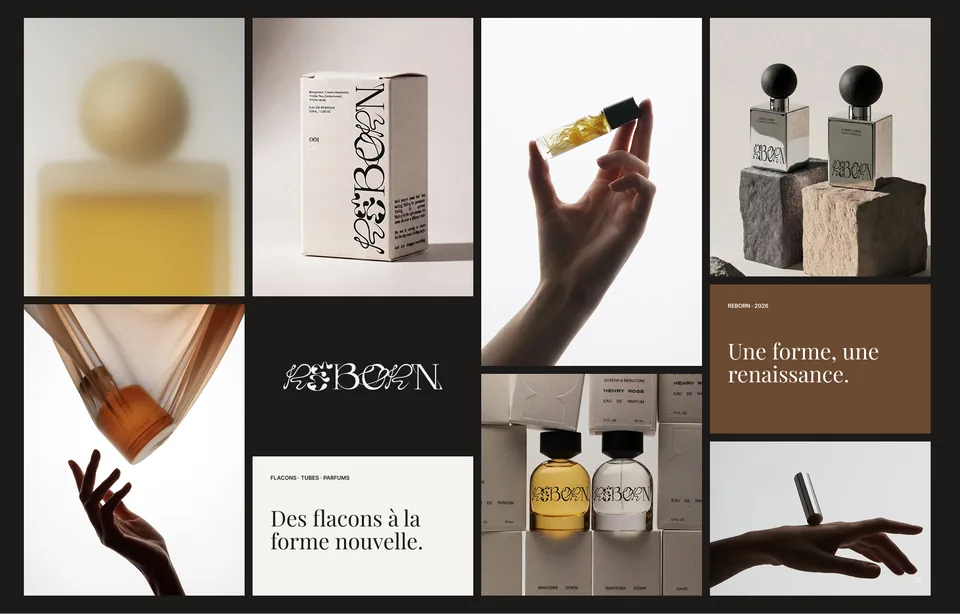
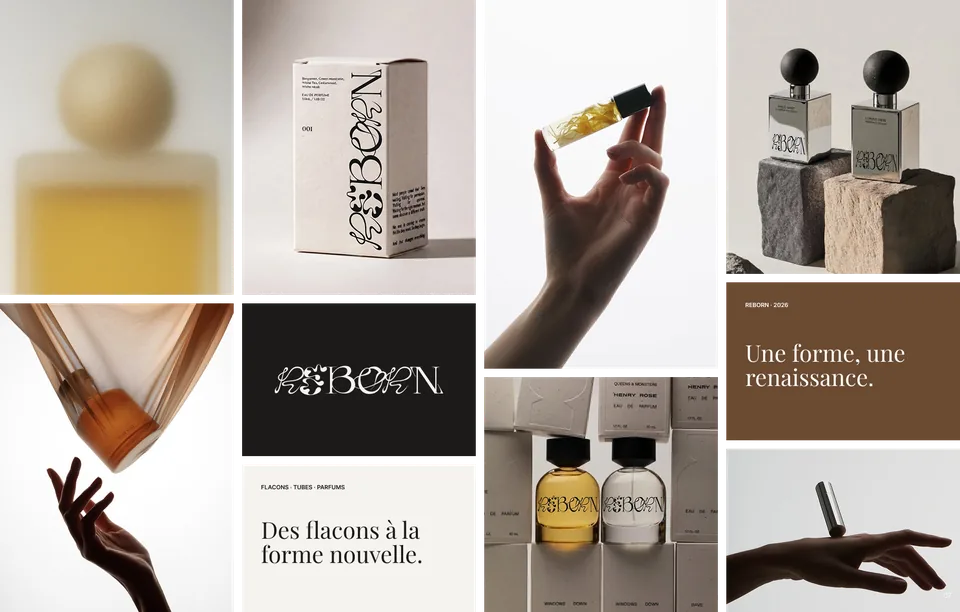
Accueil : carte Reborn sans fond (transparence entre les photos)

diff --git a/index.html b/index.html
@@ -1337,7 +1337,7 @@ img, .trail__card, .pj__viewer, .follow {
     // Jamais deux voisines de la même famille ni de la même couleur ; chaque tour, une carte change de projet.
     (function () {
     try {
-      var ALL = [{"id":"breath-1","src":"images/portfolio/group-1000008223-card.webp","cat":"breath","avg":[145,143,137],"ratio":0.829,"detail":{"title":"Breath","type":"Affiche expérimentale","desc":"Une affiche expérimentale à l’ambiance calme : silhouette florale en filigrane, titre en lettrage graphique et damier en signature. Présentée à plat, puis en situation.","items":["Direction artistique","Affiche","Typographie"],"tools":"Illustrator · Photoshop","format":"Print · Affiche","imgs":["images/portfolio/group-1000008223-pop.webp","images/portfolio/image-110-pop.webp"]}},{"id":"breath-2","src":"images/portfolio/image-110-card.webp","cat":"breath","avg":[112,107,100],"ratio":0.8,"detail":{"title":"Breath","type":"Affiche expérimentale","desc":"Une affiche expérimentale à l’ambiance calme : silhouette florale en filigrane, titre en lettrage graphique et damier en signature. Présentée à plat, puis en situation.","items":["Direction artistique","Affiche","Typographie"],"tools":"Illustrator · Photoshop","format":"Print · Affiche","imgs":["images/portfolio/group-1000008223-pop.webp","images/portfolio/image-110-pop.webp"]}},{"id":"frame7","src":"images/portfolio/frame-7-card.webp","cat":"solo-frame7","avg":[216,193,193],"ratio":0.772,"detail":{"title":"Parachute","type":"Mise en page expérimentale","desc":"Une mise en page expérimentale construite autour des paroles d’une chanson : le texte, l’image et les blancs dialoguent pour faire entendre la musique.","items":["Direction artistique","Mise en page","Typographie"],"tools":"InDesign · Photoshop","format":"Édition","imgs":["images/portfolio/frame-7-pop.webp"]}},{"id":"poster788","src":"images/portfolio/frame-1000008153-card.webp","cat":"solo-poster788","avg":[24,24,24],"ratio":0.772,"detail":{"title":"Poster N°789","type":"Affiche expérimentale","desc":"Une affiche expérimentale sombre et graphique, construite autour d’un motif en points et d’une typographie très structurée.","items":["Direction artistique","Affiche","Typographie"],"tools":"Illustrator · Photoshop","format":"Print · Affiche","imgs":["images/portfolio/frame-1000008153-pop.webp"]}},{"id":"paysages","src":"images/portfolio/group-1000008295-2-card.webp","cat":"solo-paysages","avg":[198,201,191],"ratio":0.763,"detail":{"title":"Norway Magazine","type":"Édition · Magazine","desc":"Une page de magazine éditoriale pensée pour promouvoir la Norvège : de belles photographies, des colonnes de texte aérées et un bandeau d’images en pied de page.","items":["Mise en page","Direction artistique","Typographie"],"tools":"InDesign · Photoshop","format":"Édition · Print","imgs":["images/portfolio/group-1000008295-2-pop.webp"]}},{"id":"mira","src":"images/portfolio/mira-magazine-card.webp","cat":"solo-mira","avg":[184,173,171],"ratio":0.581,"detail":{"title":"MIRA Magazine","type":"Édition · Magazine numérique","desc":"La direction artistique d’un magazine numérique de mode et de portraits, pensé pour la lecture à l’écran : un portrait sobre en noir et blanc, une lumière naturelle, de grandes capitales rouges et une mise en page qui laisse respirer l’image, de la couverture aux pages intérieures.","items":["Direction artistique","Mise en page","Typographie"],"tools":"InDesign · Photoshop","format":"Édition · Numérique","imgs":["images/portfolio/mira-magazine-pop.webp"]},"keepColor":true},{"id":"poster01","src":"images/portfolio/poster-01-swiss-card.webp","cat":"solo-poster01","avg":[233,233,230],"ratio":0.707,"detail":{"title":"I feel lonely","type":"Affiche expérimentale","desc":"Une affiche typographique expérimentale sur la solitude : un lettrage manuscrit étiré au centre, de courts textes en marge et beaucoup de blanc pour laisser respirer le message.","items":["Direction artistique","Typographie expérimentale","Mise en page"],"tools":"Illustrator · Photoshop","format":"Print · Affiche","imgs":["images/portfolio/poster-01-swiss-pop.webp"]}},{"id":"poster05","src":"images/portfolio/poster-05-tableau-card.webp","cat":"solo-poster05","avg":[241,225,219],"ratio":0.707,"detail":{"title":"Festival","type":"Affiche expérimentale","desc":"Une affiche expérimentale pour un festival d’été fictif : un lettrage gonflé en 3D, orange vif, entouré d’informations pratiques organisées comme un programme.","items":["Direction artistique","Typographie expérimentale","Mise en page"],"tools":"Illustrator · Photoshop","format":"Print · Affiche","imgs":["images/portfolio/poster-05-tableau-pop.webp"]}},{"id":"love-2","src":"images/portfolio/love-triangle-mockup-card.webp","cat":"love","avg":[146,141,134],"ratio":0.75,"detail":{"title":"Love Triangle","type":"Affiche expérimentale · Hommage","desc":"Une affiche hommage au titre « Love Triangle » d’Angèle, en featuring avec Caroline Polachek et SebastiAn : un portrait en grand format, un lettrage élégant jaune pâle sur bandeau noir et des paroles en filigrane. Présentée en version finale et en situation.","items":["Direction artistique","Affiche","Lettrage"],"tools":"Photoshop · Illustrator","format":"Print · Affiche A3","imgs":["images/portfolio/love-triangle-mockup-pop.webp","images/portfolio/love-triangle-poster-pop.webp"]}},{"id":"affiche-2","src":"images/portfolio/affiche-2-card.webp","cat":"solo-affiche-2","avg":[68,70,70],"ratio":1.0,"detail":{"title":"Game Over","type":"Affiche expérimentale","desc":"Une affiche expérimentale au lettrage rouge déformé sur un fond vert-de-gris, photographiée en situation sur une grille métallique.","items":["Direction artistique","Affiche","Lettrage"],"tools":"Illustrator · Photoshop","format":"Print · Affiche","imgs":["images/portfolio/affiche-2-pop.webp"]}},{"id":"affiche-3","src":"images/portfolio/affiche-3-card.webp","cat":"solo-affiche-3","avg":[65,58,60],"ratio":1.001,"detail":{"title":"Oxytocine","type":"Affiche expérimentale","desc":"Une affiche expérimentale qui mêle un lettrage blanc distordu et une forme dégradée rouge et bleue sur fond noir, présentée en situation.","items":["Direction artistique","Affiche","Lettrage"],"tools":"Illustrator · Photoshop","format":"Print · Affiche","imgs":["images/portfolio/affiche-3-pop.webp"]}},{"id":"noir","src":"images/portfolio/noir-expo-mockup-card.webp","cat":"solo-noir","avg":[105,102,101],"ratio":0.704,"detail":{"title":"Noir Expo","type":"Affiche expérimentale · Exposition","desc":"Une affiche expérimentale pour Noir Expo, une exposition photo consacrée au noir et blanc : une recherche sur la façon dont le noir et blanc fait ressortir le sujet, la lumière et le grain. Présentée en situation, puis en version finale.","items":["Direction artistique","Affiche","Typographie"],"tools":"Photoshop · Illustrator","format":"Print · Affiche","imgs":["images/portfolio/noir-expo-mockup-pop.webp","images/portfolio/noir-expo-poster-pop.webp"]},"keepColor":true},{"id":"site-studio-bento","src":"images/sites/studio-bento-top.webp","full":"images/sites/studio-bento-full.webp","cat":"site","avg":[191,182,176],"ratio":1.6,"wide":true,"scroll":true,"fr":4.55,"detail":{"title":"Argenta - Studio de grillz, strass et manucure","type":"Site vitrine · Grille bento","desc":"Un site pour Argenta, studio de grillz, de strass dentaires et de manucure, construit en grille bento : prestations, créations et ambiance se découvrent d’un seul coup d’œil.","items":["Direction artistique","Maquette UI / UX","Système de grille"],"tools":"Figma","format":"Desktop · 1440 px","imgs":["images/sites/studio-bento-full.webp"],"browser":true}},{"id":"site-architecte","src":"images/sites/architecte-top.webp","full":"images/sites/architecte-full.webp","cat":"site","avg":[59,60,57],"ratio":1.6,"wide":true,"scroll":true,"fr":4.3944,"detail":{"title":"Aubert - Architecte indépendante","type":"Site vitrine · Portfolio","desc":"Une identité et un site sobres pour une architecte : de grandes photographies, une typographie élégante et un parcours « du croquis à la clé ».","items":["Identité visuelle","Maquette UI / UX","Portfolio"],"tools":"Figma","format":"Desktop · 1440 px","imgs":["images/sites/architecte-full.webp"],"browser":true}},{"id":"site-streetwear","src":"images/sites/streetwear-top.webp","full":"images/sites/streetwear-full.webp","cat":"site","avg":[98,64,56],"ratio":1.6,"wide":true,"scroll":true,"fr":3.9583,"detail":{"title":"Drop - Marque de streetwear","type":"Landing page · Marque de streetwear","desc":"Une landing page pour Drop, une marque de streetwear : des visuels forts, des drops mis en avant et un parcours d’achat réduit à l’essentiel.","items":["Direction artistique","Maquette UI / UX","E-commerce"],"tools":"Figma","format":"Desktop · 1440 px","imgs":["images/sites/streetwear-full.webp"],"browser":true}},{"id":"obscura","src":"images/sites/obscura-top.webp","full":"images/sites/obscura-full.webp","cat":"site","avg":[216,213,212],"ratio":1.6,"wide":true,"scroll":true,"fr":1.138,"keepColor":true,"detail":{"title":"Obscura - Studio de photographie","type":"Landing page interactive · Studio de photographie","desc":"Un projet expérimental pour montrer ce que peut devenir le portfolio d’un photographe ou d’un studio : les photos défilent, on choisit celle que l’on veut voir et elle s’ouvre en grand, avec sa série. Une page très simple, pensée comme une landing page interactive.","items":["Direction artistique","Maquette UI / UX","Portfolio interactif"],"tools":"Figma","format":"Desktop · 1920 px","imgs":["images/sites/obscura-full.webp"],"browser":true}},{"id":"cobra","src":"images/portfolio/cobra-card.webp","cat":"solo-cobra","avg":[100,89,100],"ratio":0.687,"detail":{"title":"Armanoïde","type":"Affiche expérimentale · Hommage","desc":"Une affiche hommage à Armanoïde, le bras droit du héros et pirate de l’espace Cobra (Space Adventure) : un personnage métallique sur fond d’étoiles, un grand lettrage rouge et bleu, et du texte en filigrane.","items":["Direction artistique","Affiche","Lettrage"],"tools":"Illustrator · Photoshop","format":"Print · Affiche","imgs":["images/portfolio/cobra-pop.webp"]}},{"id":"drop-brand","src":"images/portfolio/drop-slide-card.webp","cat":"drop","avg":[99,98,81],"ratio":1.584,"detail":{"title":"Drop","type":"Identité visuelle · Logo","desc":"Une identité de marque au caractère streetwear : un logotype massif et arrondi, des objets, des affiches et des visuels pensés pour créer un univers reconnaissable à chaque apparition.","items":["Identité visuelle","Logo","Direction artistique","Affiches"],"tools":"Illustrator · Photoshop","format":"Branding · Print","imgs":["images/portfolio/drop-brand-pop.webp"]}},{"id":"lueur-brand","src":"images/portfolio/lueur-accueil-card.webp","cat":"lueur","avg":[145,141,122],"ratio":1.564,"detail":{"title":"Lueur","type":"Identité visuelle · Branding","desc":"Une identité douce et élégante pour une marque de bijoux : logotype en finesse, packaging épuré et enseigne qui prolonge l’univers de la marque.","items":["Identité visuelle","Packaging","Signalétique"],"tools":"Illustrator · Photoshop","format":"Branding · Packaging","imgs":["images/portfolio/lueur-brand-pop.webp"]}},{"id":"drop-3d","src":"images/portfolio/drop-2-card.webp","cat":"drop","avg":[126,125,123],"ratio":0.765,"detail":{"title":"Drop","type":"Identité visuelle · Logo","desc":"Une identité de marque au caractère streetwear : un logotype massif et arrondi, des objets, des affiches et des visuels pensés pour créer un univers reconnaissable à chaque apparition.","items":["Identité visuelle","Logo","Direction artistique","Affiches"],"tools":"Illustrator · Photoshop","format":"Branding · Print","imgs":["images/portfolio/drop-brand-pop.webp"]}},{"id":"reborn-brand","src":"images/portfolio/reborn-slide-card.webp","cat":"reborn","avg":[152,143,133],"ratio":1.564,"detail":{"title":"Reborn","type":"Identité visuelle · Design de flacons","desc":"Une identité pour un studio qui crée de nouvelles formes de flacons et de tubes de parfum : un logotype aux courbes organiques, une palette sobre de noirs, de gris et de blancs réchauffés de brun et d’ambre, et des photographies qui mettent la forme en scène.","items":["Identité visuelle","Logo","Direction artistique"],"tools":"Figma · Illustrator","format":"Branding · Design de flacons","imgs":["images/portfolio/reborn-brand-pop.webp"]}}];
+      var ALL = [{"id":"breath-1","src":"images/portfolio/group-1000008223-card.webp","cat":"breath","avg":[145,143,137],"ratio":0.829,"detail":{"title":"Breath","type":"Affiche expérimentale","desc":"Une affiche expérimentale à l’ambiance calme : silhouette florale en filigrane, titre en lettrage graphique et damier en signature. Présentée à plat, puis en situation.","items":["Direction artistique","Affiche","Typographie"],"tools":"Illustrator · Photoshop","format":"Print · Affiche","imgs":["images/portfolio/group-1000008223-pop.webp","images/portfolio/image-110-pop.webp"]}},{"id":"breath-2","src":"images/portfolio/image-110-card.webp","cat":"breath","avg":[112,107,100],"ratio":0.8,"detail":{"title":"Breath","type":"Affiche expérimentale","desc":"Une affiche expérimentale à l’ambiance calme : silhouette florale en filigrane, titre en lettrage graphique et damier en signature. Présentée à plat, puis en situation.","items":["Direction artistique","Affiche","Typographie"],"tools":"Illustrator · Photoshop","format":"Print · Affiche","imgs":["images/portfolio/group-1000008223-pop.webp","images/portfolio/image-110-pop.webp"]}},{"id":"frame7","src":"images/portfolio/frame-7-card.webp","cat":"solo-frame7","avg":[216,193,193],"ratio":0.772,"detail":{"title":"Parachute","type":"Mise en page expérimentale","desc":"Une mise en page expérimentale construite autour des paroles d’une chanson : le texte, l’image et les blancs dialoguent pour faire entendre la musique.","items":["Direction artistique","Mise en page","Typographie"],"tools":"InDesign · Photoshop","format":"Édition","imgs":["images/portfolio/frame-7-pop.webp"]}},{"id":"poster788","src":"images/portfolio/frame-1000008153-card.webp","cat":"solo-poster788","avg":[24,24,24],"ratio":0.772,"detail":{"title":"Poster N°789","type":"Affiche expérimentale","desc":"Une affiche expérimentale sombre et graphique, construite autour d’un motif en points et d’une typographie très structurée.","items":["Direction artistique","Affiche","Typographie"],"tools":"Illustrator · Photoshop","format":"Print · Affiche","imgs":["images/portfolio/frame-1000008153-pop.webp"]}},{"id":"paysages","src":"images/portfolio/group-1000008295-2-card.webp","cat":"solo-paysages","avg":[198,201,191],"ratio":0.763,"detail":{"title":"Norway Magazine","type":"Édition · Magazine","desc":"Une page de magazine éditoriale pensée pour promouvoir la Norvège : de belles photographies, des colonnes de texte aérées et un bandeau d’images en pied de page.","items":["Mise en page","Direction artistique","Typographie"],"tools":"InDesign · Photoshop","format":"Édition · Print","imgs":["images/portfolio/group-1000008295-2-pop.webp"]}},{"id":"mira","src":"images/portfolio/mira-magazine-card.webp","cat":"solo-mira","avg":[184,173,171],"ratio":0.581,"detail":{"title":"MIRA Magazine","type":"Édition · Magazine numérique","desc":"La direction artistique d’un magazine numérique de mode et de portraits, pensé pour la lecture à l’écran : un portrait sobre en noir et blanc, une lumière naturelle, de grandes capitales rouges et une mise en page qui laisse respirer l’image, de la couverture aux pages intérieures.","items":["Direction artistique","Mise en page","Typographie"],"tools":"InDesign · Photoshop","format":"Édition · Numérique","imgs":["images/portfolio/mira-magazine-pop.webp"]},"keepColor":true},{"id":"poster01","src":"images/portfolio/poster-01-swiss-card.webp","cat":"solo-poster01","avg":[233,233,230],"ratio":0.707,"detail":{"title":"I feel lonely","type":"Affiche expérimentale","desc":"Une affiche typographique expérimentale sur la solitude : un lettrage manuscrit étiré au centre, de courts textes en marge et beaucoup de blanc pour laisser respirer le message.","items":["Direction artistique","Typographie expérimentale","Mise en page"],"tools":"Illustrator · Photoshop","format":"Print · Affiche","imgs":["images/portfolio/poster-01-swiss-pop.webp"]}},{"id":"poster05","src":"images/portfolio/poster-05-tableau-card.webp","cat":"solo-poster05","avg":[241,225,219],"ratio":0.707,"detail":{"title":"Festival","type":"Affiche expérimentale","desc":"Une affiche expérimentale pour un festival d’été fictif : un lettrage gonflé en 3D, orange vif, entouré d’informations pratiques organisées comme un programme.","items":["Direction artistique","Typographie expérimentale","Mise en page"],"tools":"Illustrator · Photoshop","format":"Print · Affiche","imgs":["images/portfolio/poster-05-tableau-pop.webp"]}},{"id":"love-2","src":"images/portfolio/love-triangle-mockup-card.webp","cat":"love","avg":[146,141,134],"ratio":0.75,"detail":{"title":"Love Triangle","type":"Affiche expérimentale · Hommage","desc":"Une affiche hommage au titre « Love Triangle » d’Angèle, en featuring avec Caroline Polachek et SebastiAn : un portrait en grand format, un lettrage élégant jaune pâle sur bandeau noir et des paroles en filigrane. Présentée en version finale et en situation.","items":["Direction artistique","Affiche","Lettrage"],"tools":"Photoshop · Illustrator","format":"Print · Affiche A3","imgs":["images/portfolio/love-triangle-mockup-pop.webp","images/portfolio/love-triangle-poster-pop.webp"]}},{"id":"affiche-2","src":"images/portfolio/affiche-2-card.webp","cat":"solo-affiche-2","avg":[68,70,70],"ratio":1.0,"detail":{"title":"Game Over","type":"Affiche expérimentale","desc":"Une affiche expérimentale au lettrage rouge déformé sur un fond vert-de-gris, photographiée en situation sur une grille métallique.","items":["Direction artistique","Affiche","Lettrage"],"tools":"Illustrator · Photoshop","format":"Print · Affiche","imgs":["images/portfolio/affiche-2-pop.webp"]}},{"id":"affiche-3","src":"images/portfolio/affiche-3-card.webp","cat":"solo-affiche-3","avg":[65,58,60],"ratio":1.001,"detail":{"title":"Oxytocine","type":"Affiche expérimentale","desc":"Une affiche expérimentale qui mêle un lettrage blanc distordu et une forme dégradée rouge et bleue sur fond noir, présentée en situation.","items":["Direction artistique","Affiche","Lettrage"],"tools":"Illustrator · Photoshop","format":"Print · Affiche","imgs":["images/portfolio/affiche-3-pop.webp"]}},{"id":"noir","src":"images/portfolio/noir-expo-mockup-card.webp","cat":"solo-noir","avg":[105,102,101],"ratio":0.704,"detail":{"title":"Noir Expo","type":"Affiche expérimentale · Exposition","desc":"Une affiche expérimentale pour Noir Expo, une exposition photo consacrée au noir et blanc : une recherche sur la façon dont le noir et blanc fait ressortir le sujet, la lumière et le grain. Présentée en situation, puis en version finale.","items":["Direction artistique","Affiche","Typographie"],"tools":"Photoshop · Illustrator","format":"Print · Affiche","imgs":["images/portfolio/noir-expo-mockup-pop.webp","images/portfolio/noir-expo-poster-pop.webp"]},"keepColor":true},{"id":"site-studio-bento","src":"images/sites/studio-bento-top.webp","full":"images/sites/studio-bento-full.webp","cat":"site","avg":[191,182,176],"ratio":1.6,"wide":true,"scroll":true,"fr":4.55,"detail":{"title":"Argenta - Studio de grillz, strass et manucure","type":"Site vitrine · Grille bento","desc":"Un site pour Argenta, studio de grillz, de strass dentaires et de manucure, construit en grille bento : prestations, créations et ambiance se découvrent d’un seul coup d’œil.","items":["Direction artistique","Maquette UI / UX","Système de grille"],"tools":"Figma","format":"Desktop · 1440 px","imgs":["images/sites/studio-bento-full.webp"],"browser":true}},{"id":"site-architecte","src":"images/sites/architecte-top.webp","full":"images/sites/architecte-full.webp","cat":"site","avg":[59,60,57],"ratio":1.6,"wide":true,"scroll":true,"fr":4.3944,"detail":{"title":"Aubert - Architecte indépendante","type":"Site vitrine · Portfolio","desc":"Une identité et un site sobres pour une architecte : de grandes photographies, une typographie élégante et un parcours « du croquis à la clé ».","items":["Identité visuelle","Maquette UI / UX","Portfolio"],"tools":"Figma","format":"Desktop · 1440 px","imgs":["images/sites/architecte-full.webp"],"browser":true}},{"id":"site-streetwear","src":"images/sites/streetwear-top.webp","full":"images/sites/streetwear-full.webp","cat":"site","avg":[98,64,56],"ratio":1.6,"wide":true,"scroll":true,"fr":3.9583,"detail":{"title":"Drop - Marque de streetwear","type":"Landing page · Marque de streetwear","desc":"Une landing page pour Drop, une marque de streetwear : des visuels forts, des drops mis en avant et un parcours d’achat réduit à l’essentiel.","items":["Direction artistique","Maquette UI / UX","E-commerce"],"tools":"Figma","format":"Desktop · 1440 px","imgs":["images/sites/streetwear-full.webp"],"browser":true}},{"id":"obscura","src":"images/sites/obscura-top.webp","full":"images/sites/obscura-full.webp","cat":"site","avg":[216,213,212],"ratio":1.6,"wide":true,"scroll":true,"fr":1.138,"keepColor":true,"detail":{"title":"Obscura - Studio de photographie","type":"Landing page interactive · Studio de photographie","desc":"Un projet expérimental pour montrer ce que peut devenir le portfolio d’un photographe ou d’un studio : les photos défilent, on choisit celle que l’on veut voir et elle s’ouvre en grand, avec sa série. Une page très simple, pensée comme une landing page interactive.","items":["Direction artistique","Maquette UI / UX","Portfolio interactif"],"tools":"Figma","format":"Desktop · 1920 px","imgs":["images/sites/obscura-full.webp"],"browser":true}},{"id":"cobra","src":"images/portfolio/cobra-card.webp","cat":"solo-cobra","avg":[100,89,100],"ratio":0.687,"detail":{"title":"Armanoïde","type":"Affiche expérimentale · Hommage","desc":"Une affiche hommage à Armanoïde, le bras droit du héros et pirate de l’espace Cobra (Space Adventure) : un personnage métallique sur fond d’étoiles, un grand lettrage rouge et bleu, et du texte en filigrane.","items":["Direction artistique","Affiche","Lettrage"],"tools":"Illustrator · Photoshop","format":"Print · Affiche","imgs":["images/portfolio/cobra-pop.webp"]}},{"id":"drop-brand","src":"images/portfolio/drop-slide-card.webp","cat":"drop","avg":[99,98,81],"ratio":1.584,"detail":{"title":"Drop","type":"Identité visuelle · Logo","desc":"Une identité de marque au caractère streetwear : un logotype massif et arrondi, des objets, des affiches et des visuels pensés pour créer un univers reconnaissable à chaque apparition.","items":["Identité visuelle","Logo","Direction artistique","Affiches"],"tools":"Illustrator · Photoshop","format":"Branding · Print","imgs":["images/portfolio/drop-brand-pop.webp"]}},{"id":"lueur-brand","src":"images/portfolio/lueur-accueil-card.webp","cat":"lueur","avg":[145,141,122],"ratio":1.564,"detail":{"title":"Lueur","type":"Identité visuelle · Branding","desc":"Une identité douce et élégante pour une marque de bijoux : logotype en finesse, packaging épuré et enseigne qui prolonge l’univers de la marque.","items":["Identité visuelle","Packaging","Signalétique"],"tools":"Illustrator · Photoshop","format":"Branding · Packaging","imgs":["images/portfolio/lueur-brand-pop.webp"]}},{"id":"drop-3d","src":"images/portfolio/drop-2-card.webp","cat":"drop","avg":[126,125,123],"ratio":0.765,"detail":{"title":"Drop","type":"Identité visuelle · Logo","desc":"Une identité de marque au caractère streetwear : un logotype massif et arrondi, des objets, des affiches et des visuels pensés pour créer un univers reconnaissable à chaque apparition.","items":["Identité visuelle","Logo","Direction artistique","Affiches"],"tools":"Illustrator · Photoshop","format":"Branding · Print","imgs":["images/portfolio/drop-brand-pop.webp"]}},{"id":"reborn-brand","src":"images/portfolio/reborn-slide-card.webp","cat":"reborn","avg":[167,157,146],"ratio":1.57,"detail":{"title":"Reborn","type":"Identité visuelle · Design de flacons","desc":"Une identité pour un studio qui crée de nouvelles formes de flacons et de tubes de parfum : un logotype aux courbes organiques, une palette sobre de noirs, de gris et de blancs réchauffés de brun et d’ambre, et des photographies qui mettent la forme en scène.","items":["Identité visuelle","Logo","Direction artistique"],"tools":"Figma · Illustrator","format":"Branding · Design de flacons","imgs":["images/portfolio/reborn-brand-pop.webp"]}}];
       window.__trailAll = ALL;
 
       var PATH = "M-400 120C-250 110 -56 163 1 209.434C58.5872 255.935 387.926 325.938 482.583 209.434C600.905 63.8051 525.516 -43.2211 427.332 19.9613C329.149 83.1436 352.902 242.723 515.041 267.302C644.752 286.966 943.56 181.94 995 156.5C1060 123 1200 70 1400 60";
